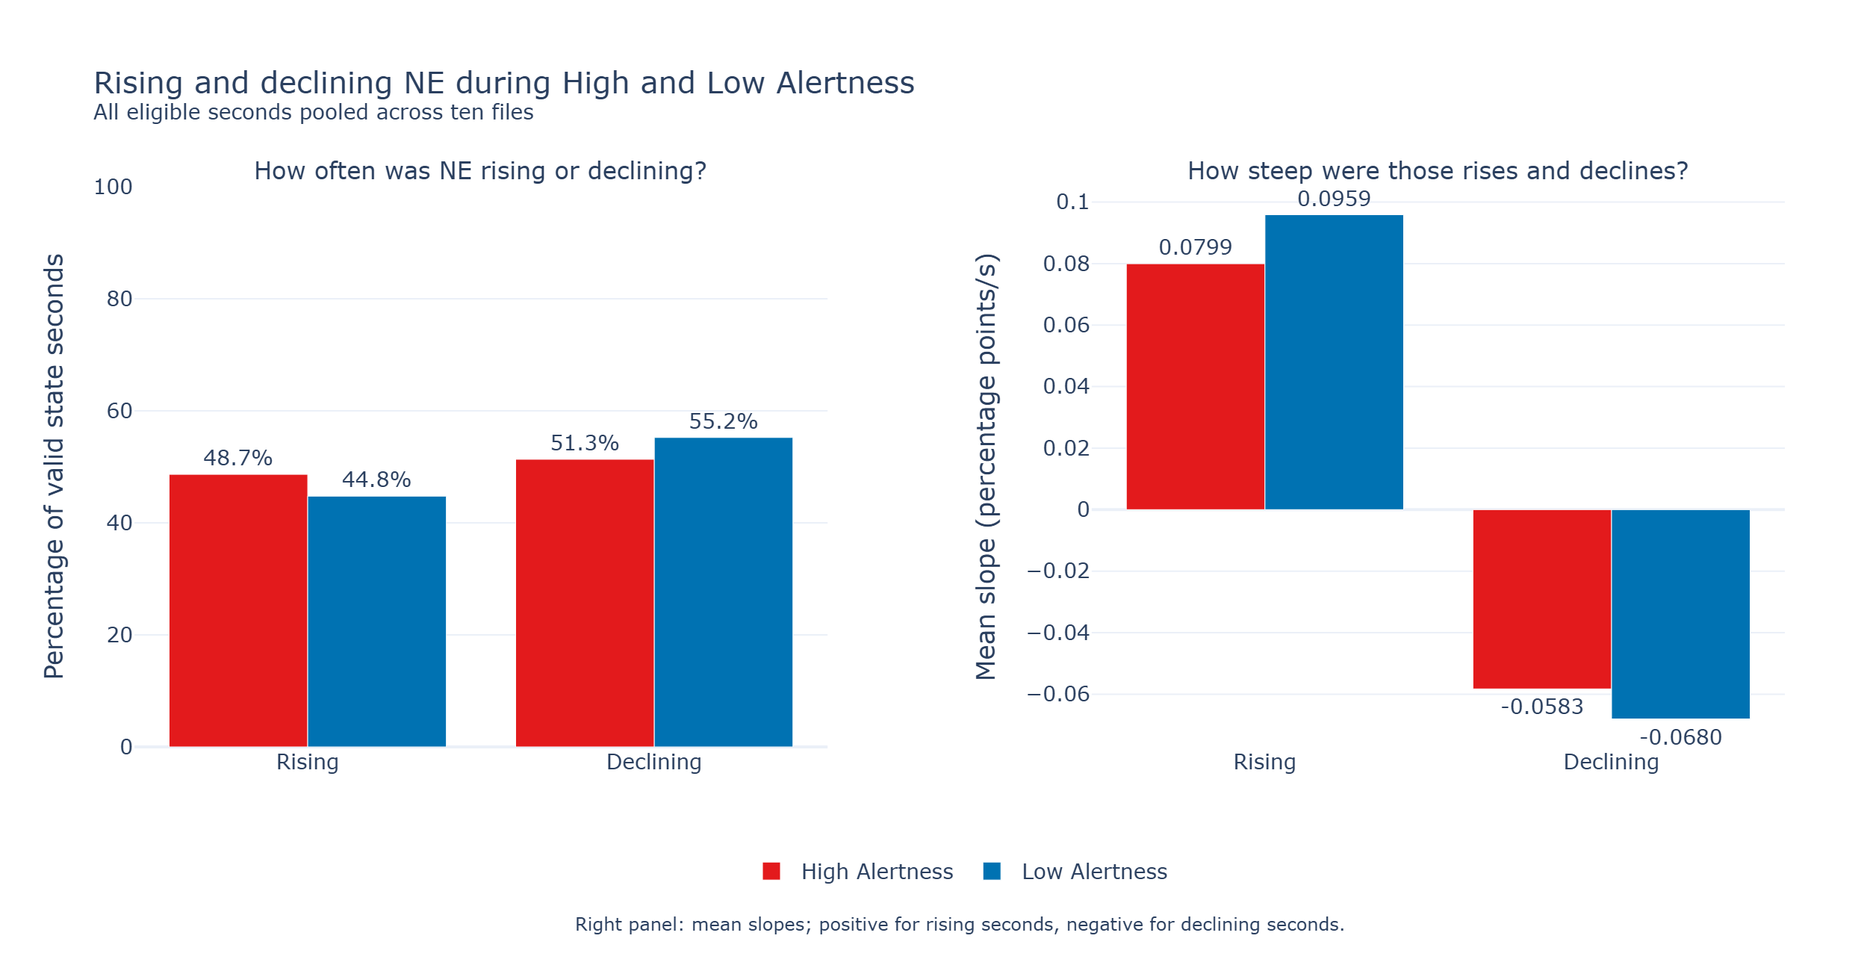
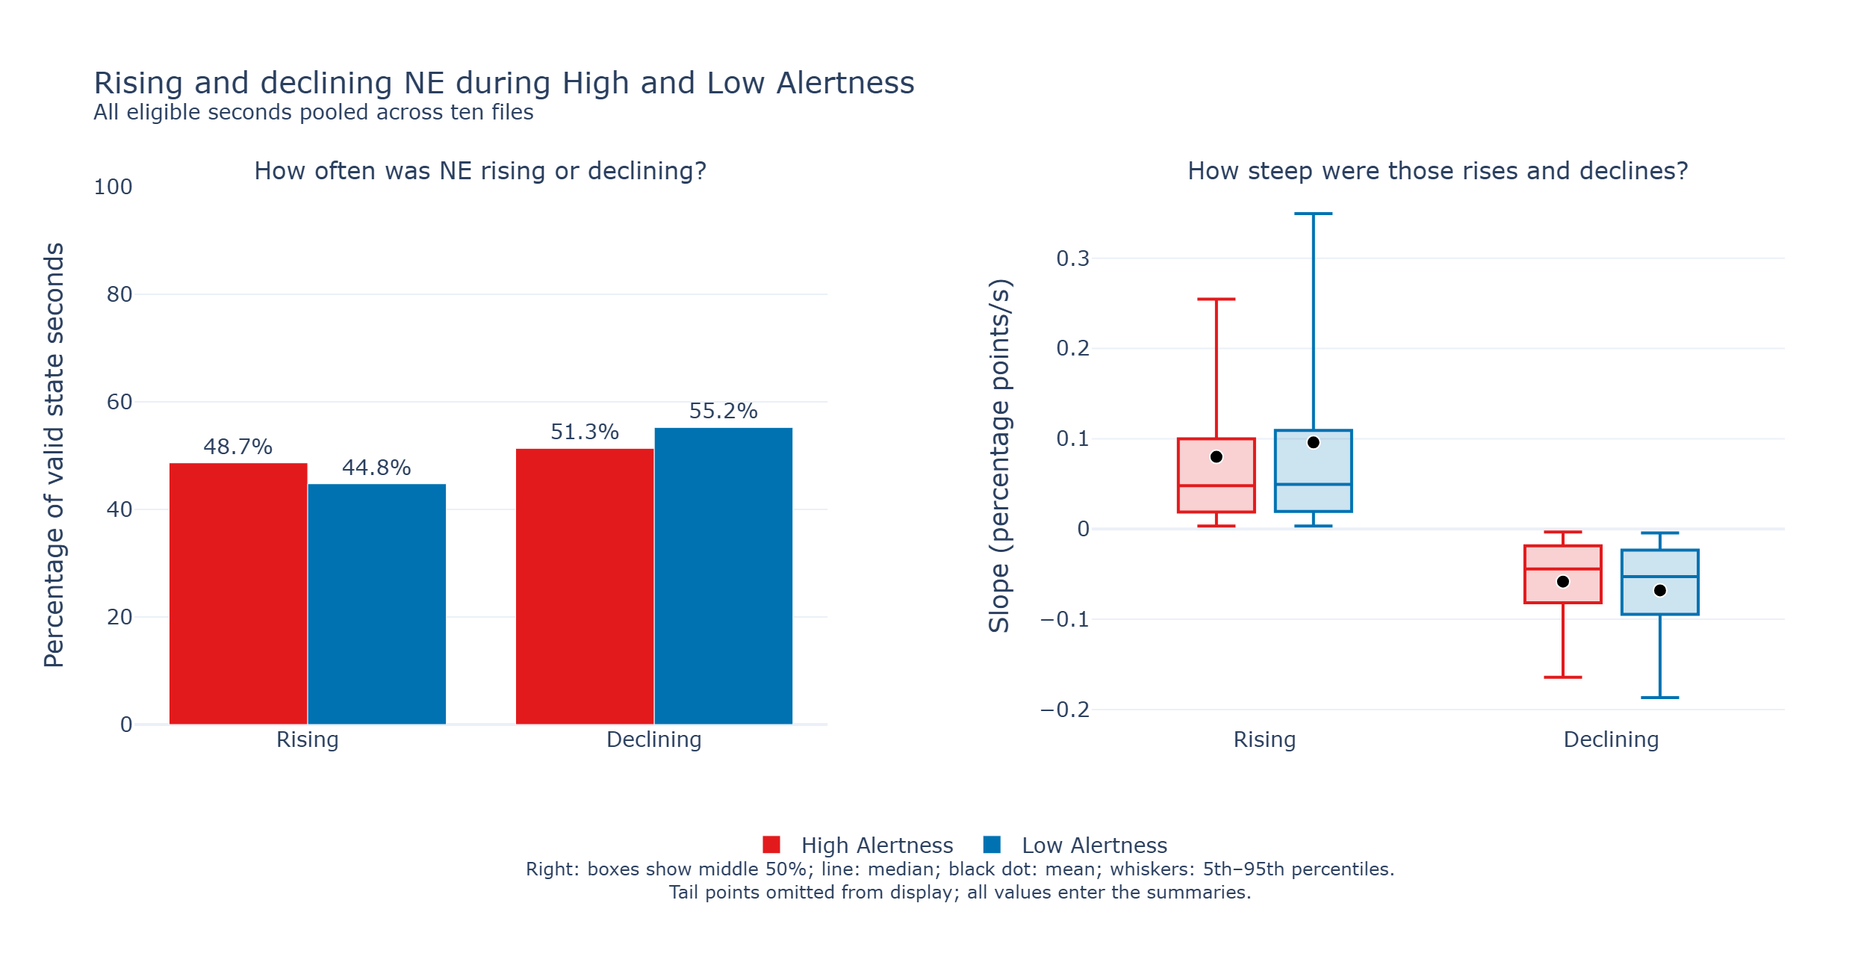
Show NE distributions alongside means
- Replace slope and variance mean bars with box plots and mean dots.
- Explain the effect sizes and pooled test results in plain language.

diff --git a/wake_ne_analysis/dynamics_plots.py b/wake_ne_analysis/dynamics_plots.py
@@ -11,20 +11,33 @@ from .dynamics_summary import pooled_comparisons
 from .ne_dynamics import FEATURE_NAMES, FEATURE_TITLES, FEATURE_UNITS
 
 
-def mean_bar(result, state, name, color):
-    """A mean-only display; no independence-based error bars are implied."""
+def box_and_mean_traces(stats, position, name, color, width=.4):
+    """Quartile box, 5th/95th percentile whiskers, and the all-values mean."""
     import plotly.graph_objects as go
 
-    mean = result[f"{state}_mean"]
-    return go.Bar(
-        x=[name], y=[mean], name=name, marker_color=color,
-        text=[f"{mean:.4f}"], textposition="outside", showlegend=False,
-        hovertemplate="%{x}<br>Mean: %{y:.5g}<extra></extra>",
+    rgb = ",".join(str(int(color[i:i + 2], 16)) for i in (1, 3, 5))
+    box = go.Box(
+        x=[position], q1=[stats["q25"]], median=[stats["median"]], q3=[stats["q75"]],
+        lowerfence=[stats["q05"]], upperfence=[stats["q95"]],
+        name=name, legendgroup=name, showlegend=False, width=width, boxpoints=False,
+        line=dict(color=color, width=2), fillcolor=f"rgba({rgb},0.20)",
     )
+    mean = go.Scatter(
+        x=[position], y=[stats["mean"]], mode="markers", name=name,
+        legendgroup=name, showlegend=False,
+        marker=dict(color="black", size=9, line=dict(color="white", width=1)),
+        hovertemplate="Mean: %{y:.5g}<extra>%{fullData.name}</extra>",
+    )
+    return box, mean
+
+
+def prefixed_box_stats(result, prefix):
+    return {key: result[f"{prefix}_{key}"] for key in
+            ("q05", "q25", "median", "q75", "q95", "mean")}
 
 
 def build_figures(comparisons, history_seconds=10):
-    """Show arithmetic means over all finite seconds, with feature coverage."""
+    """Show pooled distributions with mean dots and feature coverage."""
     import plotly.graph_objects as go
     from plotly.subplots import make_subplots
 
@@ -40,7 +53,8 @@ def build_figures(comparisons, history_seconds=10):
         for state, name, color in (("low", "Low Alertness", "#0072B2"),
                                     ("high", "High Alertness", "#E31A1C")):
             n = int(result[f"n_{state}"])
-            fig.add_trace(mean_bar(result, state, name, color), row=row, col=col)
+            for trace in box_and_mean_traces(prefixed_box_stats(result, state), name, name, color):
+                fig.add_trace(trace, row=row, col=col)
             total = n + int(result[f"n_{state}_missing"])
             coverage.add_trace(go.Bar(
                 x=[name], y=[100 * n / total if total else np.nan], marker_color=color,
@@ -55,7 +69,7 @@ def build_figures(comparisons, history_seconds=10):
                          zerolinecolor="#dddddd", row=row, col=col)
         coverage.update_yaxes(title_text="Valid state seconds (%)", range=[0, 112], row=row, col=col)
     fig.update_layout(
-        title="NE dynamics: all eligible seconds pooled<br><sup>Arithmetic means of all finite values</sup>",
+        title="NE dynamics: all eligible seconds pooled<br><sup>Boxes: middle 50%; line: median; black dot: mean; whiskers: 5th–95th percentiles</sup>",
         template="plotly_white", width=1300, height=950,
         margin=dict(l=100, r=50, t=135, b=75), font=dict(size=14),
         annotations=list(fig.layout.annotations) + [dict(
@@ -91,7 +105,8 @@ def render_results(results_dir, output_dir, png=False):
     output_dir.mkdir(parents=True, exist_ok=True)
     comparisons.to_csv(output_dir / "pooled_comparisons.csv", index=False)
     provenance = {"analysis_dir": str(results_dir.resolve()), "archive_sha256": hashes,
-                  "summary": "arithmetic_mean_of_all_finite_seconds",
+                  "summary": "all_finite_seconds",
+                  "display": "quartile_box_with_mean_dot_and_5th_95th_percentile_whiskers",
                   "code_sha256": {name: source_digest(Path(__file__).with_name(name)) for name in
                                   ("dynamics_plots.py", "dynamics_summary.py", "dynamics_workflow.py")}}
     (output_dir / "provenance.json").write_text(json.dumps(provenance, indent=2), encoding="utf-8")
@@ -103,7 +118,7 @@ def render_results(results_dir, output_dir, png=False):
 
 
 def build_variance_figure(comparisons, history_seconds=10):
-    """Focused mean variance panels; retain the original distribution tests."""
+    """Focused variance distributions; retain the original distribution tests."""
     import plotly.graph_objects as go
     from plotly.subplots import make_subplots
 
@@ -117,21 +132,22 @@ def build_variance_figure(comparisons, history_seconds=10):
             ("high", "High Alertness", "#E31A1C"),
             ("low", "Low Alertness", "#0072B2"),
         ):
-            figure.add_trace(mean_bar(row, state, name, color), row=1, col=column)
+            for trace in box_and_mean_traces(prefixed_box_stats(row, state), name, name, color):
+                figure.add_trace(trace, row=1, col=column)
         figure.layout.annotations[column - 1].text += (
             f"<br><sup>High n={int(row.n_high):,}; Low n={int(row.n_low):,}; "
             f"nominal Holm p={row.p_holm:.3g}</sup>"
         )
-        figure.update_yaxes(title_text="Mean variance (percentage points squared)",
+        figure.update_yaxes(title_text="Variance (percentage points squared)",
                             rangemode="tozero", row=1, col=column)
     figure.update_layout(
         title=f"NE variability over the preceding {history_seconds:g} seconds<br><sup>All eligible seconds pooled</sup>",
         template="plotly_white", width=1250, height=650,
-        margin=dict(l=100, r=55, t=135, b=120), font=dict(size=14),
+        margin=dict(l=100, r=55, t=135, b=145), font=dict(size=14),
     )
     figure.add_annotation(
         x=.5, y=-.23, xref="paper", yref="paper", xanchor="center", showarrow=False,
-        text="Bars show means. Mann–Whitney tests compare distributions, not means.",
+        text="Boxes: middle 50%; line: median; black dot: mean; whiskers: 5th–95th percentiles.<br>Tail points omitted from display; all values enter means and tests.",
         font=dict(size=13),
     )
     return figure

diff --git a/scripts/summarize_ne_slope_direction.py b/scripts/summarize_ne_slope_direction.py
@@ -16,6 +16,7 @@ import pandas as pd
 sys.path.insert(0, str(Path(__file__).resolve().parents[1]))
 from wake_ne_analysis.dynamics_workflow import load_feature_records, require_empty, source_digest
 from wake_ne_analysis.dynamics_summary import pool_records
+from wake_ne_analysis.dynamics_plots import box_and_mean_traces, prefixed_box_stats
 
 
 def load_slopes(analysis_dir):
@@ -41,8 +42,8 @@ def summarize(slopes):
             row[f"n_{direction}"] = len(chosen)
             row[f"percent_{direction}"] = 100 * len(chosen) / len(values) if len(values) else np.nan
             row[f"{direction}_mean"] = float(np.mean(chosen)) if len(chosen) else np.nan
-            quantiles = np.quantile(chosen, [.25, .5, .75]) if len(chosen) else [np.nan] * 3
-            for field, value in zip(("q25", "median", "q75"), quantiles):
+            quantiles = np.quantile(chosen, [.05, .25, .5, .75, .95]) if len(chosen) else [np.nan] * 5
+            for field, value in zip(("q05", "q25", "median", "q75", "q95"), quantiles):
                 row[f"{direction}_{field}"] = value
         rows.append(row)
     return pd.DataFrame(rows)
@@ -56,29 +57,28 @@ def make_figure(summary):
         "How often was NE rising or declining?",
         "How steep were those rises and declines?",
     ])
-    for row, color in zip(summary.itertuples(), ("#E31A1C", "#0072B2")):
+    for row, color, offset in zip(summary.itertuples(), ("#E31A1C", "#0072B2"), (-.14, .14)):
         fig.add_trace(go.Bar(
             x=["Rising", "Declining"], y=[row.percent_rising, row.percent_declining],
             text=[f"{row.percent_rising:.1f}%", f"{row.percent_declining:.1f}%"],
             textposition="outside", marker_color=color, name=row.state, legendgroup=row.state,
         ), row=1, col=1)
-        means = [row.rising_mean, row.declining_mean]
-        fig.add_trace(go.Bar(
-            x=["Rising", "Declining"], y=means, marker_color=color,
-            text=[f"{value:.4f}" for value in means], textposition="outside",
-            hovertemplate="%{x}<br>Mean slope: %{y:.4f}<extra>%{fullData.name}</extra>",
-            name=row.state, legendgroup=row.state, showlegend=False,
-        ), row=1, col=2)
+        for index, direction in enumerate(("rising", "declining")):
+            stats = prefixed_box_stats(row._asdict(), direction)
+            for trace in box_and_mean_traces(stats, index + offset, row.state, color, width=.22):
+                fig.add_trace(trace, row=1, col=2)
+    fig.update_xaxes(tickvals=[0, 1], ticktext=["Rising", "Declining"],
+                     range=[-.5, 1.5], row=1, col=2)
     fig.update_yaxes(title_text="Percentage of valid state seconds", range=[0, 100], row=1, col=1)
-    fig.update_yaxes(title_text="Mean slope (percentage points/s)", rangemode="tozero", row=1, col=2)
+    fig.update_yaxes(title_text="Slope (percentage points/s)", rangemode="tozero", row=1, col=2)
     fig.update_layout(
         title="Rising and declining NE during High and Low Alertness<br><sup>All eligible seconds pooled across ten files</sup>",
         template="plotly_white", barmode="group", width=1250, height=650,
-        margin=dict(l=90, r=55, t=125, b=150), font=dict(size=14),
+        margin=dict(l=90, r=55, t=125, b=165), font=dict(size=14),
         legend=dict(orientation="h", x=.5, xanchor="center", y=-.18),
     )
     fig.add_annotation(x=.5, y=-.34, xref="paper", yref="paper", xanchor="center",
-                       text="Right panel: mean slopes; positive for rising seconds, negative for declining seconds.",
+                       text="Right: boxes show middle 50%; line: median; black dot: mean; whiskers: 5th–95th percentiles.<br>Tail points omitted from display; all values enter the summaries.",
                        showarrow=False, font=dict(size=12))
     return fig
 
@@ -101,7 +101,9 @@ def main(argv=None):
     summary.to_csv(args.output_dir / "slope_direction_summary.csv", index=False)
     provenance = {"analysis_dir": str(args.analysis_dir.resolve()), "config": run["config"],
                   "n_files": len(hashes), "archive_sha256": hashes,
-                  "script_sha256": source_digest(__file__), "new_significance_tests": False}
+                  "script_sha256": source_digest(__file__),
+                  "plot_helper_sha256": source_digest(Path(__file__).resolve().parents[1] / "wake_ne_analysis/dynamics_plots.py"),
+                  "new_significance_tests": False}
     (args.output_dir / "provenance.json").write_text(json.dumps(provenance, indent=2), encoding="utf-8")
     figure = make_figure(summary)
     figure.write_html(args.output_dir / "slope_direction.html", include_plotlyjs=True)

diff --git a/writeups/ne_dynamics_report.md b/writeups/ne_dynamics_report.md
@@ -55,13 +55,35 @@ High and 7,606 Low seconds. Variance units are percentage points squared.
 | Ordinary trailing variance | 0.15431 | 0.17270 | −0.0457 | 6.78 × 10⁻¹⁰ | 1.36 × 10⁻⁹ |
 | Detrended trailing variance | 0.07038 | 0.06047 | −0.0248 | 0.000825 | 0.000825 |
 
-The Mann–Whitney tests and rank-biserial effects compare distributions, **not
-means**. Positive effects indicate a tendency toward higher values in High
-Alertness. All four nominal comparisons remain below 0.05 after Holm adjustment,
-with small effect sizes (0.025–0.061) and substantial overlap.
-For detrended variance, the negative rank effect and higher High mean reflect
-different aspects of the distribution: larger values in the upper tail can raise
-the mean without producing a positive rank effect.
+**How much do the groups differ?** Rank-biserial effect describes how often one
+label has the higher value when comparing a randomly selected High second with a
+randomly selected Low second. Positive scores favor High, negative scores favor
+Low, and zero means neither label has the higher value more often. For example,
++0.060 corresponds to a 53% versus 47% split; it does not mean a 6% difference in
+average slope. Counting ties as half a comparison for each label, the results are:
+
+- **Signed slope:** High has the higher value in **53.0%** of comparisons.
+- **Absolute slope:** Low has the higher value in **53.1%** of comparisons.
+- **Ordinary variance:** Low has the higher value in **52.3%** of comparisons.
+- **Detrended variance:** Low has the higher value in **51.2%** of comparisons.
+
+These are close to an even 50/50 split. Although the averages differ, a value
+from either label commonly exceeds one from the other. **The features show weak
+separation between High and Low Alertness seconds.** For detrended variance,
+High has the higher mean even though Low more often has the higher value in
+these comparisons: large values affect the mean by their size, whereas these
+comparisons count only which value is higher.
+
+**What do the small p-values establish?** All four p-values remain below 0.001,
+and therefore below the usual 0.05 cutoff, after the Holm correction accounts
+for testing four features. The Mann–Whitney tests compare the full sets of
+values, rather than testing the reported mean differences. They treat each
+second as an independent observation, but neighboring seconds and overlapping
+10-second windows are related. Here, “nominal” means the p-values are calculated
+under that independence assumption, which these data do not satisfy. Holm
+correction addresses the four tests; it does not fix this dependence.
+**The small p-values therefore do not establish a large difference or a result
+that reliably repeats across animals.**
 
 ## Methodology
 
@@ -124,8 +146,12 @@ steeper rises and 16.7% steeper declines.
 ![Frequency and slopes of rising and declining NE](assets/ne_slope_direction_20260923/slope_direction.png)
 
 **Figure 1.** Left: percentage of eligible state seconds classified as rising or
-declining. Right: mean slope within each direction, positive for rises and
-negative for declines.
+declining. Right: slope distributions within each direction, positive for rises
+and negative for declines. Boxes contain the middle 50% of values, the line
+inside each box marks the median, and black dots mark the means. Whiskers span
+the 5th–95th percentiles. Values beyond the whiskers are omitted from the display
+but retained in all summaries. These show the spread of seconds, not uncertainty
+in the mean.
 
 Mean signed slopes were positive in both labels despite the greater frequency
 of declining seconds. The rising slopes were large enough to outweigh the
@@ -143,9 +169,12 @@ This decomposition does not identify that component as artifact or biological si
 
 ![Ordinary and detrended trailing NE variance](assets/ne_slope_direction_20260923/variance_dynamics.png)
 
-**Figure 2.** Mean variance over the preceding 10 seconds, assigned to the current
-second's alertness label. All finite values contribute to the means. The displayed
-p-values are from the original distribution comparisons, not tests of the means.
+**Figure 2.** Distributions of variance over the preceding 10 seconds, assigned
+to the current second's alertness label. Boxes contain the middle 50% of values,
+lines mark medians, black dots mark means, and whiskers span the 5th–95th
+percentiles. Values beyond the whiskers are omitted from the display; all finite
+values contribute to the means and tests. The displayed p-values compare the
+distributions, not the means. The boxes show substantial overlap between labels.
 
 ## Interpretation for the proposal
 
@@ -176,14 +205,14 @@ samples, so slopes cannot establish that NE changes precede an alertness transit
 
 ## Reproducibility
 
-The workflow extracts the four features, renders their pooled means, and summarizes
+The workflow extracts the four features, renders their pooled distributions with mean dots, and summarizes
 rising/declining seconds from the same archives:
 
 ```powershell
 conda activate sleep_scoring_dash3.0
 python scripts/analyze_ne_dynamics.py --input-dir data --feature-dir data/derived_features/ne_dynamics_v2_pooled_20260923 --results-dir results/ne_dynamics_v2_pooled_20260923
-python scripts/render_ne_dynamics.py --results-dir results/ne_dynamics_v2_pooled_20260923 --output-dir results/ne_dynamics_means_reviewed_20260923 --png
-python scripts/summarize_ne_slope_direction.py --analysis-dir results/ne_dynamics_v2_pooled_20260923 --output-dir results/ne_slope_direction_signed_20260923 --png
+python scripts/render_ne_dynamics.py --results-dir results/ne_dynamics_v2_pooled_20260923 --output-dir results/ne_dynamics_boxplots_20260923 --png
+python scripts/summarize_ne_slope_direction.py --analysis-dir results/ne_dynamics_v2_pooled_20260923 --output-dir results/ne_slope_direction_boxplots_20260923 --png
 ```
 
 Use fresh output names when rerunning. This update reused the existing feature

diff --git a/treaty_docs/work_log.md b/treaty_docs/work_log.md
@@ -2,6 +2,40 @@
 
 ## 2026-09-23
 
+### Show distributions alongside means in the NE report (Codex GPT-6; effort/token budget not exposed)
+
+- The user requested box plots with mean dots, retaining the rising/declining
+  percentage bars, then commit and push. Means remain the narrative/table summary;
+  distribution plots make overlap and the difference between means and medians visible.
+- The shared plot helper uses quartile boxes, median lines, black mean dots, and
+  5th–95th percentile whiskers. Captions identify the percentile convention and
+  clarify that omitted tail points still enter all statistics. Slopes retain signs.
+- The preceding plain-language effect-size explanation is included in this delivery.
+  Fresh renders are in `results/ne_dynamics_boxplots_20260923/` and
+  `results/ne_slope_direction_boxplots_20260923/`. Feature archives and original
+  test results are unchanged; the unrelated PI draft image remains untracked.
+- Verification:
+  - Local date checked: `2026-09-23`.
+  - Full pytest suite: 21 passed, 1 existing optional test skipped.
+  - Both report PNGs rendered and visually inspected. Saved comparisons match
+    the previous run; direction quantiles match archive values, and box/mean
+    traces and report links were checked.
+  - `treaty validate .` and `git diff --check` passed.
+
+### Explain the effect sizes and p-values in plain language (Codex GPT-6; effort/token budget not exposed)
+
+- The user requested a self-contained interpretation for PI readers. Translate
+  the rank-biserial effects into pairwise percentages (53.0% High for signed slope;
+  53.1%, 52.3%, and 51.2% Low for the other features), counting ties as half.
+- Explain that the near-even comparisons indicate weak separation and that Holm
+  correction covers four tests, not dependence between seconds. Retain the exact
+  statistics and distinguish distribution tests from tests of mean differences.
+- Verification:
+  - Local date checked: `2026-09-23`.
+  - All four percentages calculated from the saved effects; all four adjusted
+    p-values verified below 0.001. No analysis or figure changes.
+  - `treaty validate .`, local report link check, and `git diff --check` passed.
+
 ### Clarify slope signs and the purpose of local detrending (Codex GPT-6; effort/token budget not exposed)
 
 - The user requested consistent slope terminology, a Questions section, and an

diff --git a/treaty_docs/next_steps.md b/treaty_docs/next_steps.md
@@ -14,16 +14,21 @@
   declines, 19.9% steeper rises, 11.9% greater ordinary variance,
   and 14.1% lower detrended variance. Mean signed slopes are positive in both.
   Use signed slopes consistently for rising and declining seconds, including
-  negative values for declines in Figure 1. Questions precede the executive summary.
+  negative values for declines in Figure 1. Slope and variance plots use
+  quartile boxes, median lines, mean dots, and 5th–95th percentile whiskers;
+  the percentage bars remain. Tail values are omitted only from the display. Questions precede the executive summary.
   Ordinary variance answers the primary variability question; local detrending is
   an optional secondary check that removes within-window linear changes. Retain
   both results and the original four-feature correction. Explain filtering once
   in methods.
+  Explain rank-biserial effects using the observed 51.2–53.1% pairwise comparisons,
+  and state plainly why small pooled p-values do not establish strong separation
+  or replication across animals.
   The existing distribution tests do not test mean differences. The original four-feature Holm family is unchanged;
   retain the dependence and cross-recording comparability caveats.
   Archives/results remain under `ne_dynamics_v2_pooled_20260923`, direction
-  summaries under `results/ne_slope_direction_signed_20260923/`, and focused
-  variance figures under `results/ne_dynamics_means_reviewed_20260923/`. The older
+  summaries under `results/ne_slope_direction_boxplots_20260923/`, and focused
+  variance figures under `results/ne_dynamics_boxplots_20260923/`. The older
   eight-file comparison remains superseded history in `archive/ne_dynamics_v1_recording/`.
 - The PI-facing material is limited to `writeups/preliminary_recording_report.md`,
   `writeups/cluster_visualization_report.md`, its focused

diff --git a/README.md b/README.md
@@ -72,14 +72,15 @@ as superseded history, not mixed with the v2 archives.
 The same [NE dynamics report](writeups/ne_dynamics_report.md)
 separates the fraction of rising/declining seconds from signed slope within each
 direction and includes ordinary/detrended trailing variance. `render_ne_dynamics.py`
-also produces a focused `variance_dynamics` figure. Figures and the current report
-show arithmetic means. The renderer reads verified feature archives and saves a
+also produces a focused `variance_dynamics` figure. Figures show boxes for the middle 50% of values, median lines, mean dots,
+and 5th–95th percentile whiskers; tail points are omitted only from the display.
+Tables and narrative continue to report arithmetic means. The renderer reads verified feature archives and saves a
 comparison table with means alongside the figures, checking that the original
 distribution tests are unchanged. Those tests are not tests of mean differences.
 Its descriptive table and figure can be regenerated from the completed archives:
 
 ```powershell
-python scripts/summarize_ne_slope_direction.py --analysis-dir results/ne_dynamics_v2_pooled_20260923 --output-dir results/ne_slope_direction_signed_20260923 --png
+python scripts/summarize_ne_slope_direction.py --analysis-dir results/ne_dynamics_v2_pooled_20260923 --output-dir results/ne_slope_direction_boxplots_20260923 --png
 ```
 
 This follow-up adds no significance tests and uses a fresh output directory.
